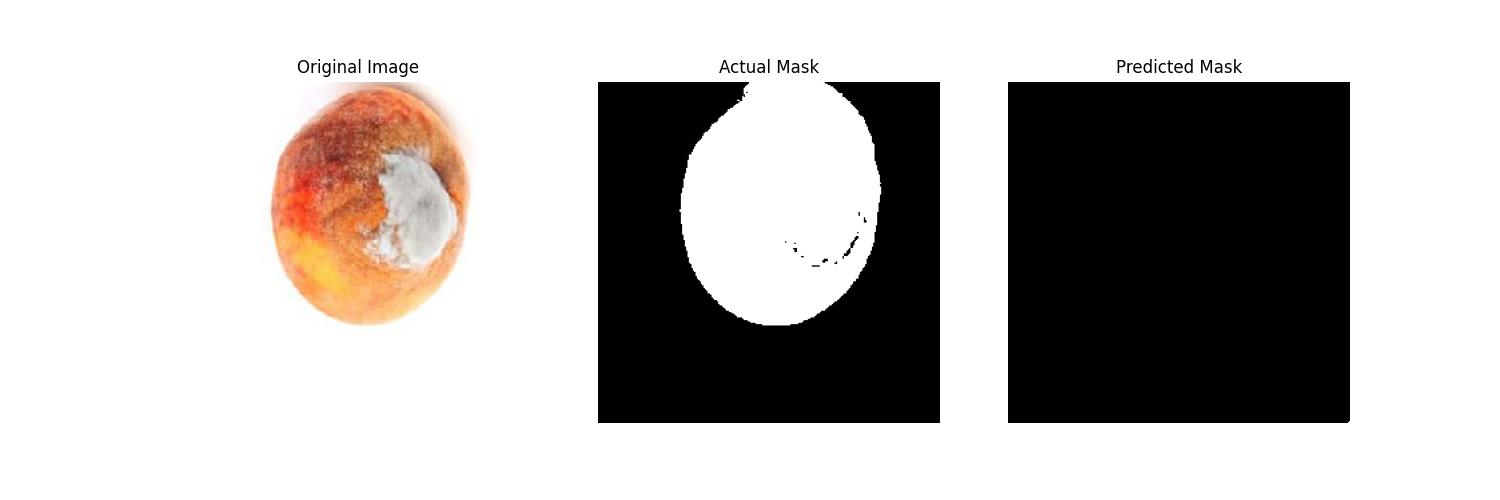
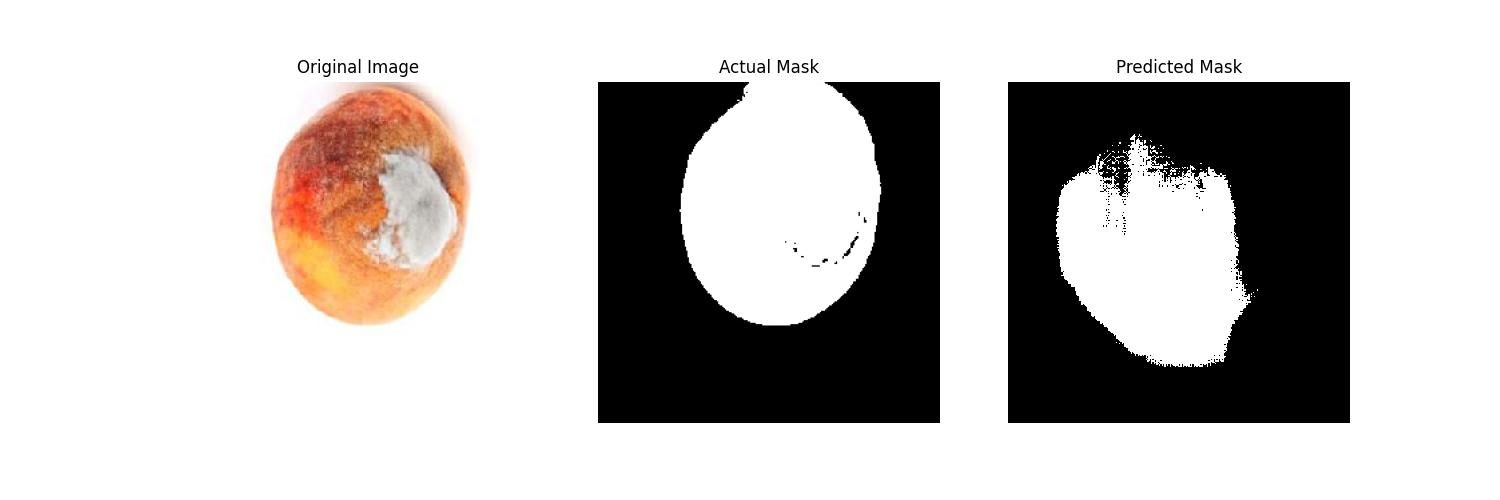
Some good stuff finally

Changed region(s): [[0.7053, 0.27, 0.828, 0.75]]

diff --git a/Assignment2/run_me/tuners.py b/Assignment2/run_me/tuners.py
@@ -120,8 +120,8 @@ def build_model(hp):
     lr = hp.Choice('learning_rate', values = [1e-3, 1e-4, 1e-5])
 
     model.compile(optimizer = Adam(learning_rate = lr), 
-                    # loss = bce_dice_loss, # Removing this for debugging stuff
-                  loss = tf.keras.losses.BinaryCrossentropy()
+                loss = bce_dice_loss, # Removing this for debugging stuff
+                  # loss = tf.keras.losses.BinaryCrossentropy()
                     metrics = [dice_coeff])
     
     return model
